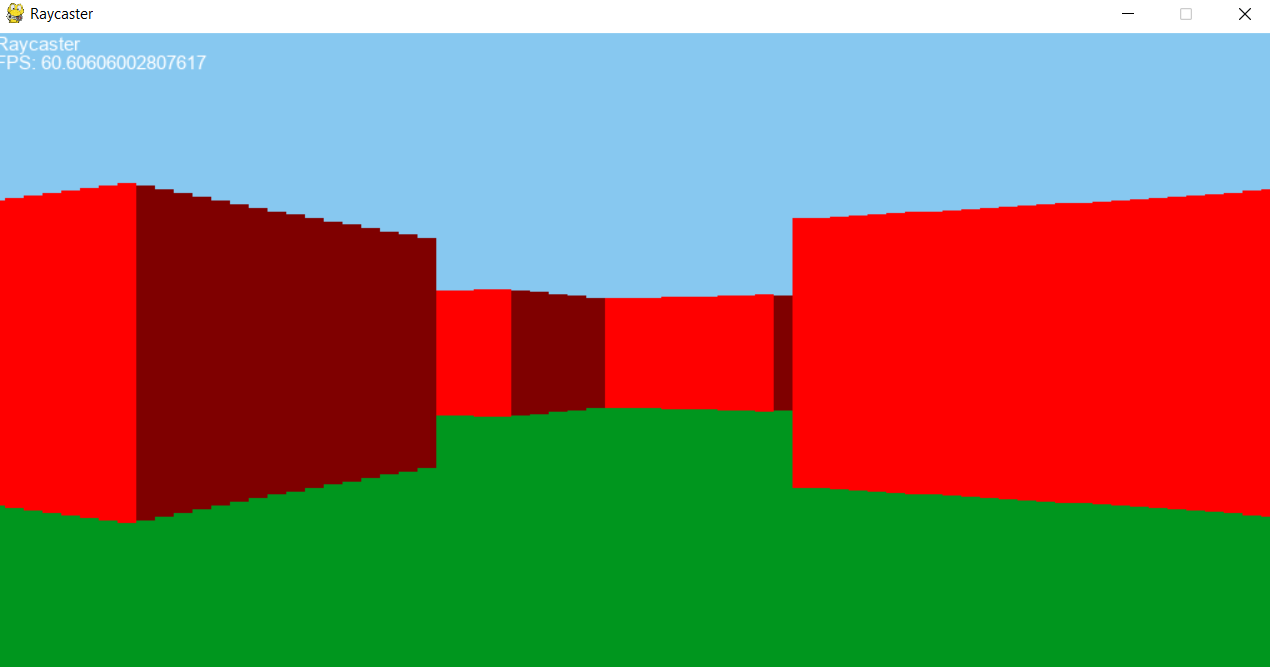
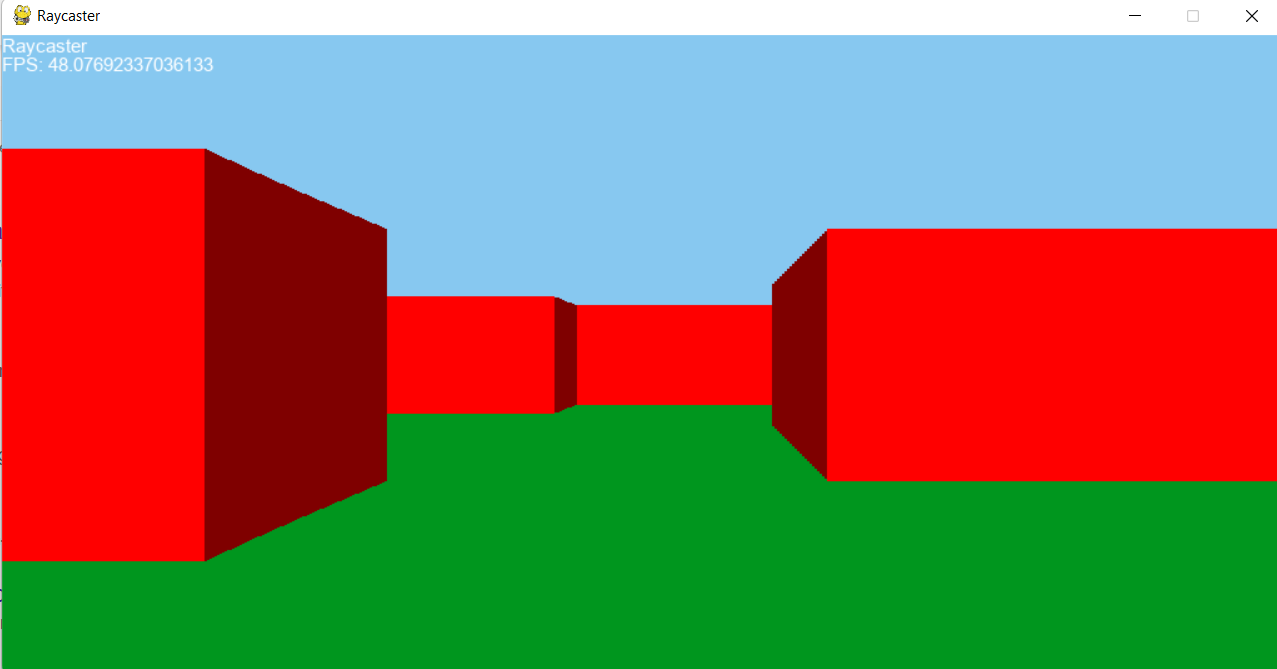
Improved rendering resolution

Changed region(s): [[0.0, 0.2099, 1.0, 0.8696], [0.0, 0.0, 0.1843, 0.1199], [0.9213, 0.03, 1.0, 0.06]]

diff --git a/engine/raycaster.py b/engine/raycaster.py
@@ -31,6 +31,10 @@ class Raycaster:
         self.block_size_y = block_size_y
         self.fov = fov
 
+
+        # NOTE: This can have a significant toll on framerate
+        self.angle_per_iter = 8 # move 1/16 of an angle per iteration
+
         self.rays = []
 
         self.width = pygame.display.get_surface().get_width()
@@ -51,8 +55,8 @@ class Raycaster:
 
         angle = bound_radian(self.entity.pos.angle - DEGREE_TO_RADIANS * self.fov / 2)
         level = level_manager.level
-
-        for i in range(self.fov):
+        # 1/16 of an angle per iteration
+        for i in range(self.fov*self.angle_per_iter):
             ray = Ray()
             ray.angle = angle
 
@@ -152,7 +156,7 @@ class Raycaster:
 
             self.rays.append(ray)
 
-            angle += DEGREE_TO_RADIANS
+            angle += (DEGREE_TO_RADIANS/self.angle_per_iter)
             angle = bound_radian(angle)
 
         return self.rays

diff --git a/main.py b/main.py
@@ -90,7 +90,7 @@ def draw(screen):
             dist = min(HEIGHT, dist)
             offset = (HEIGHT - dist) / 2
 
-            render_width = int(WIDTH / player_raycaster.fov) + 1
+            render_width = int(WIDTH / (player_raycaster.fov * player_raycaster.angle_per_iter)) + 1
             pygame.draw.line(screen, colour.read_colour(), (i*render_width, offset), (i*render_width, dist + offset), render_width)
 
 if __name__ == "__main__":
